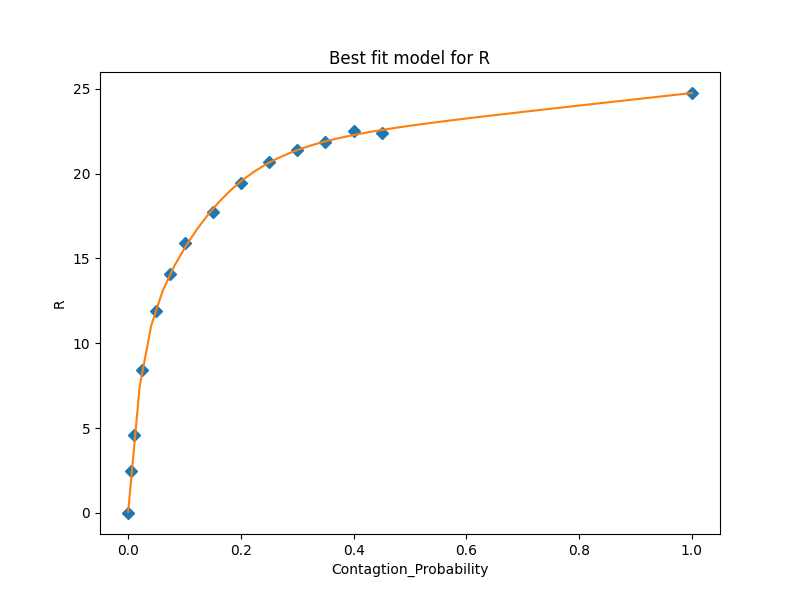
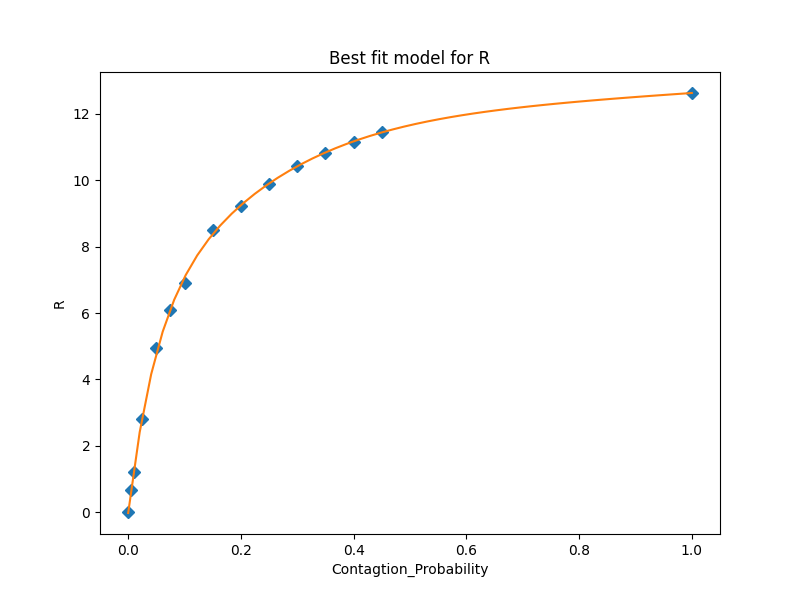
More Results and edits

diff --git a/model_runner_reverse.py b/model_runner_reverse.py
@@ -887,7 +887,7 @@ if __name__ == '__main__':
     #for this instance we will simply assume that the data uses entries within space, pop and cont above
     #Our input within the lookup will be ["Space" = space]["Pop"= pop] we want to find a sufficient prob_contagtion given a value of R_0
     R = 4
-    space = 50
+    space = 100
     population = 800
     data = pd.read_csv("scenarios/Verifier/results_const.csv")
     params = Generate_Function(data, space, population) #Prints the estimated function f(prob) and returns any parameters such as constants
@@ -965,23 +965,23 @@ if __name__ == '__main__':
     error =diff_model.Verify_Assertion(model_data, hyperparams)
     print("Total_Error: ", error, "Score: ", 100-100*error/((data["ensemble"]["steps"]/96)+2))
 
-    # results_list = []
-    # plt.figure(figsize=(200.7, 100.27))
-    # plt.ticklabel_format(style='plain', axis='y')
-    # fig, ax = plt.subplots()
-    # ax.set_xlabel("R")
-    # ax.set_ylabel("Error (%)")
-    # for r_val in range(1,10,1):
-    #     error = verify_accross_R(data, r_val, params)
-    #     percent = 100 * error / ((data["ensemble"]["steps"] / 96) + 2)
-    #     results_list.append(percent)
+    results_list = []
+    plt.figure(figsize=(200.7, 100.27))
+    plt.ticklabel_format(style='plain', axis='y')
+    fig, ax = plt.subplots()
+    ax.set_xlabel("R")
+    ax.set_ylabel("Error (%)")
+    for r_val in range(1,10,1):
+        error = verify_accross_R(data, r_val, params)
+        percent = 100 * error / ((data["ensemble"]["steps"] / 96) + 2)
+        results_list.append(percent)
 
-    # ax.plot(range(1,10,1), results_list, color="red", label="Errors", linewidth=1)
-    # ax.set_title("ABM model errors across different R values" + str(space))
-    # plt.axis('tight')
-    # output = "scenarios/Verifier/" + "R_value_errors.png"
-    # plt.savefig(output, dpi=700)
-    # plt.close()
+    ax.plot(range(1,10,1), results_list, color="red", label="Errors", linewidth=1)
+    ax.set_title("ABM model errors across different R values" + str(space))
+    plt.axis('tight')
+    output = "scenarios/Verifier/" + "R_value_errors.png"
+    plt.savefig(output, dpi=700)
+    plt.close()
 
     #Output the error
 
